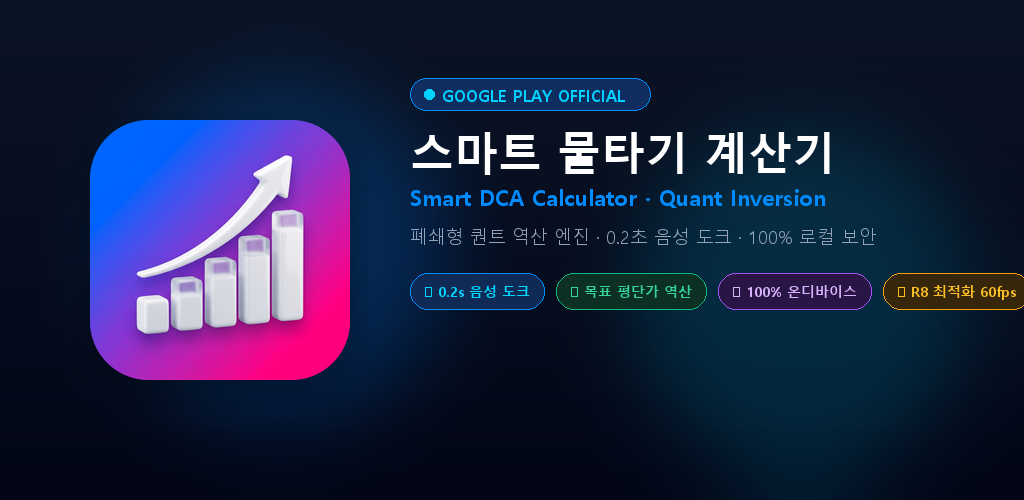
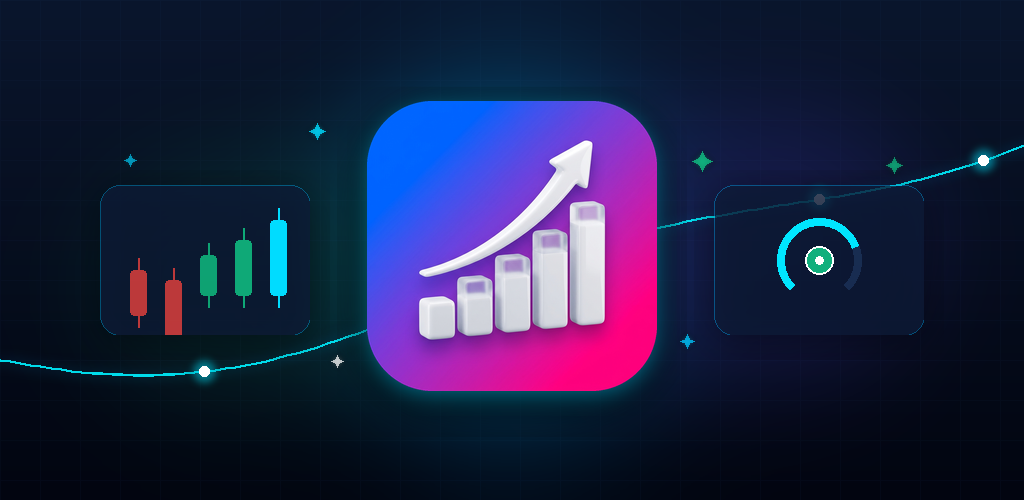
feat(store): update feature graphic to 100% textless universal design for all languages

diff --git a/tool/generate_textless_feature_graphic.py b/tool/generate_textless_feature_graphic.py
@@ -1,0 +1,209 @@
+# -*- coding: utf-8 -*-
+import os
+import math
+from PIL import Image, ImageDraw, ImageFilter
+
+def create_textless_feature_graphic():
+    root = r"d:\097.flutter_project\average_down_calculator"
+    store_dir = os.path.join(root, "store")
+    os.makedirs(store_dir, exist_ok=True)
+    
+    W, H = 1024, 500
+    
+    # 1. Base Gradient Canvas (Deep Quant Midnight Navy)
+    base = Image.new('RGBA', (W, H), (6, 11, 24, 255))
+    draw_base = ImageDraw.Draw(base)
+    
+    for y in range(H):
+        t = y / float(H)
+        # Deep blue-black vertical gradient
+        r = int(10 * (1 - t) + 2 * t)
+        g = int(22 * (1 - t) + 5 * t)
+        b = int(45 * (1 - t) + 16 * t)
+        draw_base.line([(0, y), (W, y)], fill=(r, g, b, 255))
+        
+    # 2. Subtle Financial Terminal Grid (Mathematical / Quant Aesthetic)
+    grid = Image.new('RGBA', (W, H), (0, 0, 0, 0))
+    g_draw = ImageDraw.Draw(grid)
+    grid_spacing = 40
+    for x in range(0, W, grid_spacing):
+        g_draw.line([(x, 0), (x, H)], fill=(30, 60, 110, 18), width=1)
+    for y in range(0, H, grid_spacing):
+        g_draw.line([(0, y), (W, y)], fill=(30, 60, 110, 18), width=1)
+    base = Image.alpha_composite(base, grid)
+    
+    # 3. Volumetric Atmospheric Glows
+    glow = Image.new('RGBA', (W, H), (0, 0, 0, 0))
+    glow_draw = ImageDraw.Draw(glow)
+    
+    # Large Cyan & Electric Blue central aura
+    glow_draw.ellipse([W//2 - 260, H//2 - 220, W//2 + 260, H//2 + 220], fill=(0, 160, 255, 75))
+    glow_draw.ellipse([W//2 - 140, H//2 - 120, W//2 + 140, H//2 + 120], fill=(0, 230, 255, 90))
+    
+    # Ambient side glows
+    glow_draw.ellipse([60, 120, 380, 440], fill=(16, 185, 129, 35))     # Emerald recovery accent (left)
+    glow_draw.ellipse([W - 420, 60, W - 60, 420], fill=(79, 70, 229, 50))  # Royal indigo accent (right)
+    
+    glow = glow.filter(ImageFilter.GaussianBlur(65))
+    base = Image.alpha_composite(base, glow)
+    
+    # 4. Dynamic Ascending Financial Neon Wave (Mathematical Breakeven Trend)
+    wave = Image.new('RGBA', (W, H), (0, 0, 0, 0))
+    w_draw = ImageDraw.Draw(wave)
+    
+    # Compute smooth cubic curve points from bottom-left to top-right
+    points = []
+    num_steps = 100
+    for i in range(num_steps + 1):
+        t = i / float(num_steps)
+        # S-curve ease-in-out representing DCA recovery
+        px = t * W
+        # Base wave: starts at y=360, dips slightly, then surges up to y=110
+        py = 360 - 240 * (t ** 1.8) + 25 * math.sin(t * math.pi * 2.5)
+        points.append((px, py))
+        
+    # Draw glow line (thick, soft)
+    for i in range(len(points) - 1):
+        w_draw.line([points[i], points[i+1]], fill=(0, 170, 255, 60), width=12)
+    wave_blur = wave.filter(ImageFilter.GaussianBlur(8))
+    base = Image.alpha_composite(base, wave_blur)
+    
+    # Draw sharp neon core line
+    wave_core = Image.new('RGBA', (W, H), (0, 0, 0, 0))
+    wc_draw = ImageDraw.Draw(wave_core)
+    for i in range(len(points) - 1):
+        wc_draw.line([points[i], points[i+1]], fill=(0, 240, 255, 230), width=3)
+    base = Image.alpha_composite(base, wave_core)
+    
+    # Milestone pulsing nodes along the curve
+    node_indices = [20, 50, 80, 96]
+    for idx in node_indices:
+        nx, ny = points[idx]
+        node_glow = Image.new('RGBA', (W, H), (0, 0, 0, 0))
+        ng_draw = ImageDraw.Draw(node_glow)
+        ng_draw.ellipse([nx - 14, ny - 14, nx + 14, ny + 14], fill=(0, 230, 255, 120))
+        node_glow = node_glow.filter(ImageFilter.GaussianBlur(5))
+        base = Image.alpha_composite(base, node_glow)
+        
+        node_core = Image.new('RGBA', (W, H), (0, 0, 0, 0))
+        nc_draw = ImageDraw.Draw(node_core)
+        nc_draw.ellipse([nx - 5, ny - 5, nx + 5, ny + 5], fill=(255, 255, 255, 255))
+        base = Image.alpha_composite(base, node_core)
+        
+    # 5. Floating Glass Cards (Left: Mini Candlestick Card, Right: Circular Gauge Card) - 100% TEXTLESS!
+    # Left Card: Abstract Candlestick & Bar Graphic
+    card_l_w, card_l_h = 210, 150
+    cl_x, cl_y = 100, (H - card_l_h) // 2 + 10
+    
+    card_l = Image.new('RGBA', (card_l_w, card_l_h), (0, 0, 0, 0))
+    cl_draw = ImageDraw.Draw(card_l)
+    # Glass background
+    cl_draw.rounded_rectangle([0, 0, card_l_w, card_l_h], radius=20, fill=(13, 27, 56, 190), outline=(0, 180, 255, 100), width=1)
+    
+    # Draw purely visual financial bars & candles (no text)
+    bar_data = [
+        (30, 85, 45, (239, 68, 68, 200)),    # red drop
+        (65, 95, 60, (239, 68, 68, 200)),    # red drop
+        (100, 70, 40, (16, 185, 129, 220)),  # green recovery
+        (135, 55, 55, (16, 185, 129, 230)),  # green surge
+        (170, 35, 75, (0, 220, 255, 255)),   # cyan target breakout
+    ]
+    for bx, by, bh, bcolor in bar_data:
+        # candle wick
+        cl_draw.line([(bx + 8, by - 12), (bx + 8, by + bh + 12)], fill=bcolor, width=2)
+        # candle body
+        cl_draw.rounded_rectangle([bx, by, bx + 16, by + bh], radius=4, fill=bcolor)
+        
+    # Card shadow
+    cl_shadow = Image.new('RGBA', (card_l_w + 40, card_l_h + 40), (0, 0, 0, 0))
+    cls_draw = ImageDraw.Draw(cl_shadow)
+    cls_draw.rounded_rectangle([20, 20, card_l_w + 20, card_l_h + 20], radius=20, fill=(0, 0, 0, 110))
+    cl_shadow = cl_shadow.filter(ImageFilter.GaussianBlur(18))
+    
+    base.paste(cl_shadow, (cl_x - 20, cl_y - 15), cl_shadow)
+    base.paste(card_l, (cl_x, cl_y), card_l)
+    
+    # Right Card: Abstract Circular Target Dial / Precision Gauge (no text)
+    card_r_w, card_r_h = 210, 150
+    cr_x, cr_y = W - card_r_w - 100, (H - card_r_h) // 2 + 10
+    
+    card_r = Image.new('RGBA', (card_r_w, card_r_h), (0, 0, 0, 0))
+    cr_draw = ImageDraw.Draw(card_r)
+    cr_draw.rounded_rectangle([0, 0, card_r_w, card_r_h], radius=20, fill=(13, 27, 56, 190), outline=(0, 180, 255, 100), width=1)
+    
+    # Arc / Gauge in center of right card
+    cx_g, cy_g = card_r_w // 2, card_r_h // 2
+    r_g = 42
+    # Background ring
+    cr_draw.arc([cx_g - r_g, cy_g - r_g, cx_g + r_g, cy_g + r_g], start=135, end=405, fill=(30, 58, 100, 180), width=8)
+    # Active glowing green-cyan arc
+    cr_draw.arc([cx_g - r_g, cy_g - r_g, cx_g + r_g, cy_g + r_g], start=135, end=340, fill=(0, 230, 255, 255), width=8)
+    # Target bullseye center
+    cr_draw.ellipse([cx_g - 14, cy_g - 14, cx_g + 14, cy_g + 14], fill=(16, 185, 129, 240), outline=(255, 255, 255, 255), width=2)
+    cr_draw.ellipse([cx_g - 4, cy_g - 4, cx_g + 4, cy_g + 4], fill=(255, 255, 255, 255))
+    
+    # Card shadow
+    cr_shadow = Image.new('RGBA', (card_r_w + 40, card_r_h + 40), (0, 0, 0, 0))
+    crs_draw = ImageDraw.Draw(cr_shadow)
+    crs_draw.rounded_rectangle([20, 20, card_r_w + 20, card_r_h + 20], radius=20, fill=(0, 0, 0, 110))
+    cr_shadow = cr_shadow.filter(ImageFilter.GaussianBlur(18))
+    
+    base.paste(cr_shadow, (cr_x - 20, cr_y - 15), cr_shadow)
+    base.paste(card_r, (cr_x, cr_y), card_r)
+    
+    # 6. Hero Center: 3D Squircle App Icon (290x290)
+    icon_src = os.path.join(root, "assets", "app_icon_clean_squircle.png")
+    if not os.path.exists(icon_src):
+        icon_src = os.path.join(root, "assets", "app_icon.png")
+        
+    icon_im = Image.open(icon_src).convert('RGBA')
+    icon_size = 290
+    hero_x = (W - icon_size) // 2
+    hero_y = (H - icon_size) // 2 - 4
+    
+    # Multi-tier realistic soft drop shadow under hero icon
+    hero_shadow = Image.new('RGBA', (icon_size + 60, icon_size + 60), (0, 0, 0, 0))
+    hs_draw = ImageDraw.Draw(hero_shadow)
+    hs_draw.rounded_rectangle([30, 30, icon_size + 30, icon_size + 30], radius=68, fill=(0, 0, 0, 160))
+    hero_shadow = hero_shadow.filter(ImageFilter.GaussianBlur(24))
+    base.paste(hero_shadow, (hero_x - 30, hero_y - 14), hero_shadow)
+    
+    # Center ambient rim glow directly behind icon
+    rim_glow = Image.new('RGBA', (icon_size + 40, icon_size + 40), (0, 0, 0, 0))
+    rg_draw = ImageDraw.Draw(rim_glow)
+    rg_draw.rounded_rectangle([15, 15, icon_size + 25, icon_size + 25], radius=68, fill=(0, 215, 255, 120))
+    rim_glow = rim_glow.filter(ImageFilter.GaussianBlur(14))
+    base.paste(rim_glow, (hero_x - 20, hero_y - 15), rim_glow)
+    
+    # Paste resized hero squircle
+    hero_sq = icon_im.resize((icon_size, icon_size), Image.Resampling.LANCZOS)
+    base.paste(hero_sq, (hero_x, hero_y), hero_sq)
+    
+    # 7. Ambient Particle Sparkles (Subtle floating diamond stars ✦ without text)
+    sparkles = [
+        (hero_x - 50, hero_y + 30, 8, (0, 220, 255, 200)),
+        (hero_x + icon_size + 45, hero_y + 60, 10, (16, 185, 129, 210)),
+        (hero_x - 30, hero_y + icon_size - 30, 6, (255, 255, 255, 180)),
+        (hero_x + icon_size + 30, hero_y + icon_size - 50, 7, (0, 200, 255, 190)),
+        (cl_x + 30, cl_y - 25, 6, (0, 210, 255, 160)),
+        (cr_x + card_r_w - 30, cr_y - 20, 8, (16, 185, 129, 180)),
+    ]
+    sp_canvas = Image.new('RGBA', (W, H), (0, 0, 0, 0))
+    sp_draw = ImageDraw.Draw(sp_canvas)
+    for sx, sy, sr, scolor in sparkles:
+        # diamond sparkle shape
+        sp_draw.polygon([(sx, sy - sr), (sx + sr//2, sy), (sx, sy + sr), (sx - sr//2, sy)], fill=scolor)
+        sp_draw.polygon([(sx - sr, sy), (sx, sy + sr//2), (sx + sr, sy), (sx, sy - sr//2)], fill=scolor)
+        
+    sp_glow = sp_canvas.filter(ImageFilter.GaussianBlur(3))
+    base = Image.alpha_composite(base, sp_glow)
+    base = Image.alpha_composite(base, sp_canvas)
+    
+    # 8. Save Final 1024 x 500 Feature Graphic
+    out_path = os.path.join(store_dir, "feature_graphic.png")
+    final_rgb = base.convert('RGB')
+    final_rgb.save(out_path, format='PNG', quality=95)
+    print(f"SUCCESS: Generated 100% textless feature graphic at {out_path} ({W}x{H})")
+
+if __name__ == '__main__':
+    create_textless_feature_graphic()
